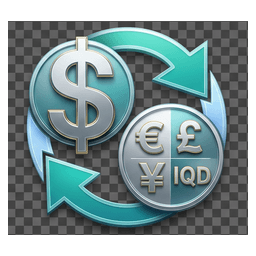
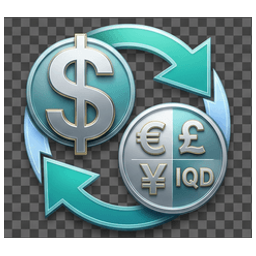
fix(tools): تكبير أيقونة العملات لتملأ المربع + قصّ محكم للهوامش الشفافة

diff --git a/src/app/(main)/page.tsx b/src/app/(main)/page.tsx
@@ -697,7 +697,7 @@ export default function DashboardPage() {
               <Link key={t.href} href={t.href} className="flex flex-col items-center gap-2 shrink-0 active:scale-95 transition-transform">
                 <div className="w-14 h-14 rounded-2xl flex items-center justify-center text-2xl shadow-sm overflow-hidden" style={{ background: t.bg }}>
                   {t.image ? (
-                    <img src={t.image} alt={t.label} className="w-11 h-11 object-contain" />
+                    <img src={t.image} alt={t.label} className="w-full h-full object-contain" />
                   ) : (
                     t.icon
                   )}

diff --git a/src/app/(main)/tools/page.tsx b/src/app/(main)/tools/page.tsx
@@ -89,7 +89,7 @@ export default function ToolsPage() {
                 style={{ background: tool.gradient }}
               >
                 {tool.image ? (
-                  <img src={tool.image} alt={tool.label} className="w-10 h-10 object-contain" />
+                  <img src={tool.image} alt={tool.label} className="w-full h-full object-contain" />
                 ) : (
                   <span style={{ filter: 'drop-shadow(0 1px 2px rgba(0,0,0,0.3))' }}>
                     {tool.icon}